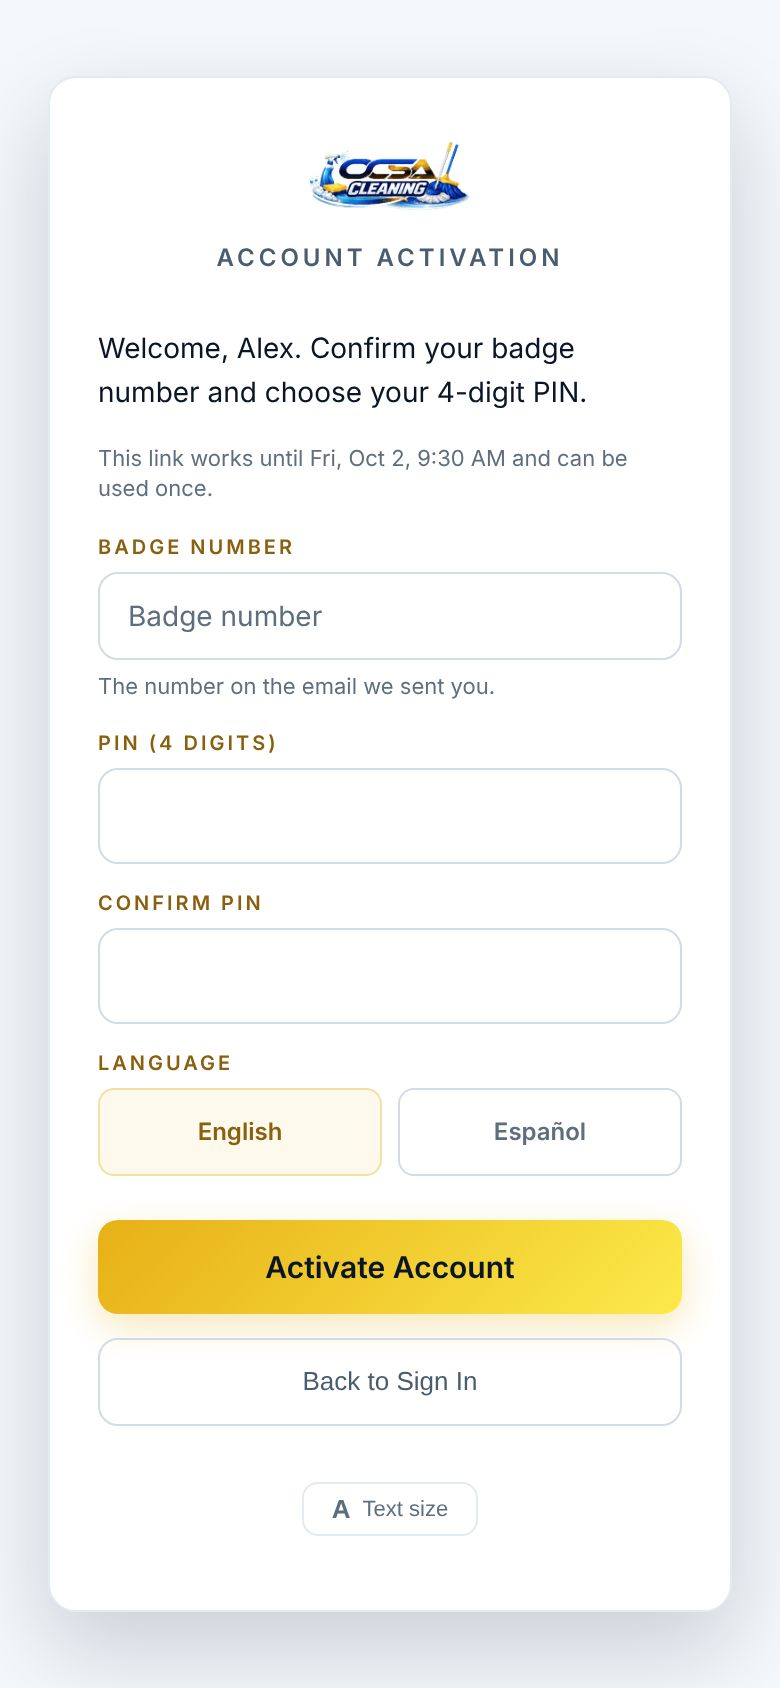
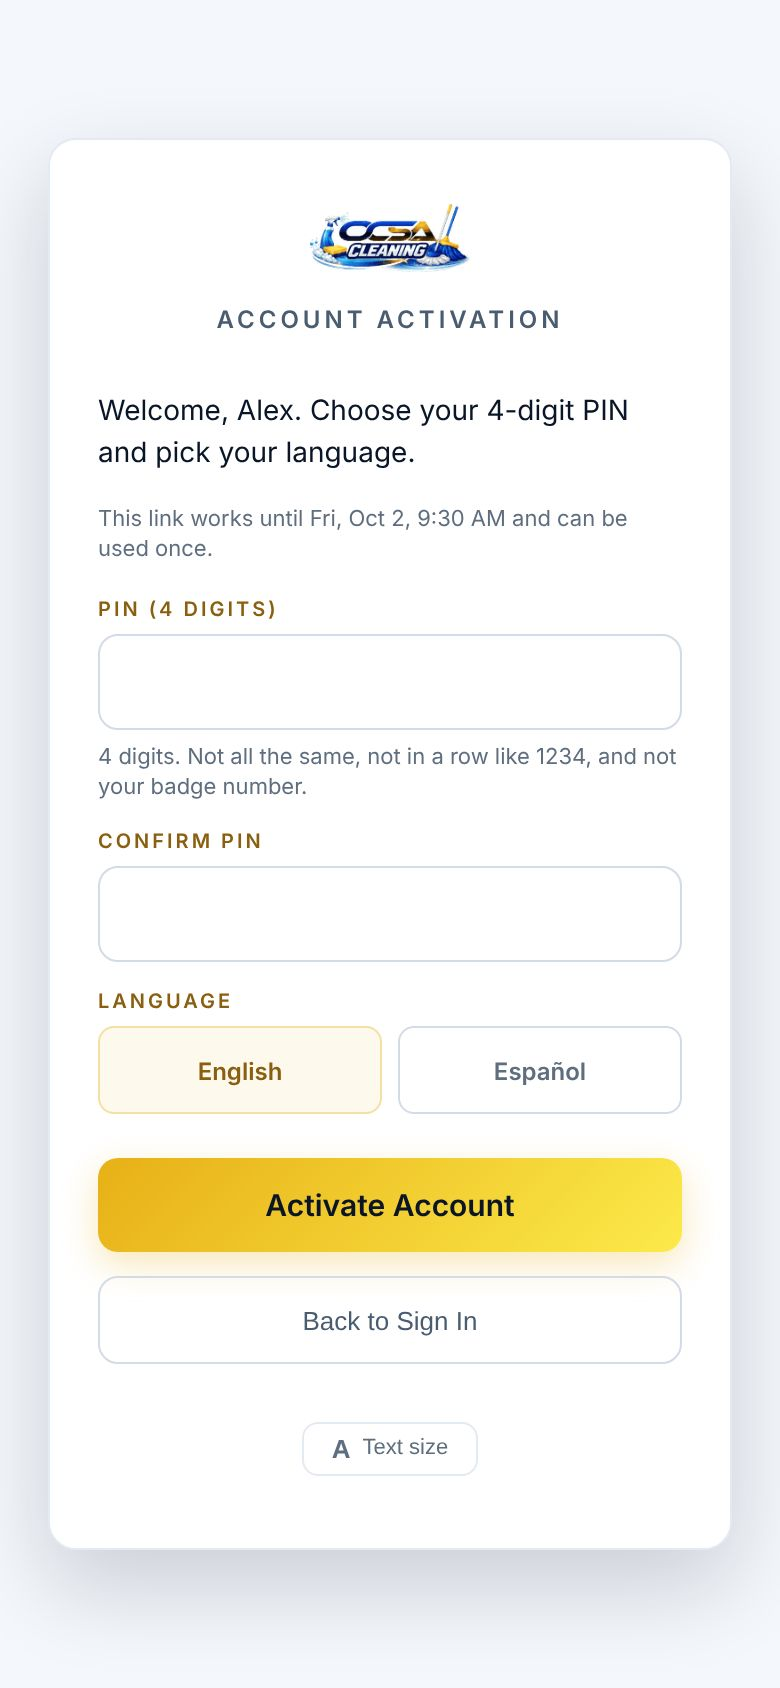
294: The guide, the stub, the picture and the smoke for activating from the welcome email
The guide: Activate your account from the email is rewritten for the
welcome email: tap Set up my account in it (the link works once and
expires in 7 days); Account Activation asks no badge; choose a 4 digit
PIN with the rule the screen gives; pick the language; Activate
Account; afterward sign in with badge number, phone or email and the
PIN. The weak-PIN refusal is named, and an older link that still asks
for the badge keeps its lines. Its words people use gain "welcome
email" and "set up my account" was already there. Last checked:
2026-10-07, and the picture activate is retaken by npm run shots on the
link from the welcome email, with no badge box.

The stub answers API Step 292 as its contract gives it: the activation
GET answers badgeAssigned false unless activationBadge stands in for an
older link, and the person's badgeNumber as live does, and the POST refuses a PIN that is not 4 digits or is weak
(isWeakPin's rule) with 400 PIN_WEAK in the request's language, and
keeps every body it is sent.

The smoke check gains activating from the welcome email, in English and
Spanish at 390: the link opens with no badge box, a weak PIN is refused
on the phone in Change PIN's words with nothing sent, and so is the
badge number, and a good PIN activates once, with no badge number and
the screen's language, and signs in.

The check a supply request with many items is steadied: each item's
supply is picked only once its picker has drawn all four rows of the
[…]

diff --git a/audit/smoke.js b/audit/smoke.js
@@ -165,7 +165,7 @@ const fs = require("fs");
 const path = require("path");
 const { serve } = require("./serve");
 const { launch, openApp } = require("./browser");
-const { createStub, servedFor, ADMIN_PERSON, FORM, TWIN_ES, HELP_ANSWERS, SDS_SHEETS, WS_TODO, SECOND_STEP_CODE, SECOND_STEP_HINT, FORM_A_WORDS, FORM_W_WORDS, EQ_CODE, EQ_ITEM, FORM_N_WORDS, CONCERN_REF,
+const { createStub, servedFor, ADMIN_PERSON, PERSON, FORM, TWIN_ES, HELP_ANSWERS, SDS_SHEETS, WS_TODO, SECOND_STEP_CODE, SECOND_STEP_HINT, FORM_A_WORDS, FORM_W_WORDS, EQ_CODE, EQ_ITEM, FORM_N_WORDS, CONCERN_REF,
   API_REFUSALS, requestWord, requestCategoryTitle, REQUEST_REF, SUP_CODE, SUP_ITEM, SUP_SITES, INSPECTION_F, FINDING_REFUSALS, TRAINING_ME, TRAINING_LESSONS, TRAINING_AWAITING, TRAINING_REFUSALS, TRAINING_SESSION_SEED, TRAINING_OBSERVATION, TRAINING_DOCUMENT, TRAINING_CATEGORIES, LESSON_IMAGE_HOST, SIGN_SEED, SIGN_WORDS, PROPERTY_KIND_WORDS, STAFF, SUPPLY_DENY_NOTE, PIN_REFUSALS, HANDBOOK, SUPPORT_CONTACT, SUPPORT_DRAFT } = require("./stub");
 const { inspect } = require("./screens");
 const { sort: sortKnown } = require("./known");
@@ -475,6 +475,42 @@ async function sds(browser, language) {
 // reload, Change PIN with a wrong current PIN, and a first supply request
 // on an empty list. Then with a stored session: a 502 at boot, and the
 // supply label's page on a PIN the person was given.
+// Activating from the welcome email (Step 294), against API Step 292 as
+// its contract gives it and the stub answers it: the link answers
+// badgeAssigned false, so no badge box; a weak PIN is refused on the
+// phone in Change PIN's words with nothing sent; a good PIN activates
+// once, with no badge number, and signs in.
+async function activateWelcome(browser, language, width) {
+  const tag = " (" + language + ", " + width + " wide)";
+  const app = await open({ accountPreferences: { language: language, textSize: "standard" } }, { browser, language, width, path: "/activate?token=fixture" });
+  const page = app.page;
+  const up = await waitFor(page, (w) => !!document.querySelectorAll('input[type="password"]')[1] && document.body.innerText.indexOf(w) !== -1, say(language, "Choose your 4-digit PIN and pick your language."));
+  const noBadge = up && await page.evaluate((w) => !Array.from(document.querySelectorAll("input")).some(i => i.placeholder === w.box) && !Array.from(document.querySelectorAll("label")).some(l => l.innerText.trim().toUpperCase() === w.label.toUpperCase()), { box: say(language, "Badge number"), label: say(language, "Badge Number") });
+  const pins = async (pin) => { const boxes = await page.$$('input[type="password"]'); await boxes[0].fill(pin); await boxes[1].fill(pin); };
+  let weak = false, weakNotSent = false, inNow = false;
+  if (up) {
+    await pins("1234");
+    await clickWord(page, say(language, "Activate Account"));
+    weak = await waitFor(page, (w) => document.body.innerText.indexOf(w) !== -1, say(language, "Choose a PIN that is not repeated digits, a sequence, or your badge number"));
+    // The badge number the link's GET answers, refused the same way.
+    await pins(PERSON.badgeNumber);
+    await clickWord(page, say(language, "Activate Account"));
+    await pause(page, TAP_SETTLE);
+    weak = weak && await waitFor(page, (w) => document.body.innerText.indexOf(w) !== -1, say(language, "Choose a PIN that is not repeated digits, a sequence, or your badge number"));
+    weakNotSent = weak && app.stub.state.activations.length === 0;
+    await pins("4907");
+    await clickWord(page, say(language, "Activate Account"));
+    inNow = await waitFor(page, BAR_JS + ".length >= 5", null, 10000);
+  }
+  const sent = app.stub.state.activations;
+  const once = sent.length === 1 && sent[0].pin === "4907" && sent[0].token === "fixture" && !("badgeNumber" in sent[0]) && sent[0].locale === language;
+  const wide = await sideways(page);
+  check("activating from the welcome email: the link opens with no badge box, a weak PIN and the badge number are refused on the phone in Change PIN's words with nothing sent, and a good PIN activates once with no badge number and signs in" + tag,
+    up && noBadge && weak && weakNotSent && inNow && once && wide <= 1 && app.errors.length === 0,
+    !up ? "the activation screen did not read its welcome line" : !noBadge ? "a badge box showed" : !weak ? "the weak PIN was not refused on the phone" : !weakNotSent ? "the weak PIN was sent" : !inNow ? "the good PIN did not sign in" : !once ? JSON.stringify(sent) : wide > 1 ? wide + " pixels sideways" : app.errors[0]);
+  await app.context.close();
+}
+
 async function signInClosed(browser, language, width) {
   const tag = " (" + language + ", " + width + " wide)";
   const app = await open({ person: ADMIN_PERSON, secondStep: true, supplyItems: true, supplyEmpty: true, accountPreferences: { language: language, textSize: "standard" } }, { browser, language, width });
@@ -1596,18 +1632,29 @@ async function supplyLines(browser, language, width) {
   }, { approved: say(language, "Approved {n} of {m}", { n: 3, m: 5 }), denied: say(language, "Denied"), note: say(language, "Note: {note}", { note: SUPPLY_DENY_NOTE }), qty: say(language, "Quantity: {n}", { n: 5 }) + " rolls" });
   let lines = false, three = false, listed = false, refused = false, capped = false, damage = false, wide = 0;
   if (decided) { await formOpen("Refill"); lines = await waitFor(page, () => !!document.querySelector('[data-supply-lines="1"] [data-supply-line-supply="0"]') && !!document.querySelector("[data-supply-add]")); }
+  // Each item's supply is picked once its picker draws all four of the
+  // list's rows, as the searchable pickers check waits (Step 294): on a
+  // slow phone with both lanes running, a tap made before the list had
+  // drawn picked nothing, and Submit Request posted no refill.
+  let picked = 0;
+  const pickSupply = async (i, id) => {
+    const scope = '[data-supply-line-supply="' + i + '"]';
+    await waitFor(page, (s) => document.querySelectorAll(s + " [data-pick-row]").length === 4, scope);
+    if (await pickIn(page, scope, id)) picked += 1;
+  };
   if (lines) {
     for (let i = 0; i < 3; i += 1) await page.click("[data-supply-add]");
+    await waitFor(page, () => !!document.querySelector('[data-supply-lines="4"]'));
     const more = say(language, "One more");
-    await pickIn(page, '[data-supply-line-supply="0"]', "sup-1");
+    await pickSupply(0, "sup-1");
     await page.click('[data-supply-line="0"] [aria-label="' + more + '"]');
     await page.click('[data-supply-line="0"] [aria-label="' + more + '"]');
-    await pickIn(page, '[data-supply-line-supply="1"]', "sup-2");
+    await pickSupply(1, "sup-2");
     await page.fill('[data-supply-line-qty="1"]', "7");
-    await pickIn(page, '[data-supply-line-supply="2"]', "sup-3");
+    await pickSupply(2, "sup-3");
     await page.fill('[data-supply-line-qty="2"]', "12");
     await page.fill('[data-supply-line-note="2"]', "Invented: the large ones.");
-    await pickIn(page, '[data-supply-line-supply="3"]', "sup-4");
+    await pickSupply(3, "sup-4");
     wide = await sideways(page);
     await page.click('[data-supply-line-remove="1"]');
     three = await waitFor(page, () => !!document.querySelector('[data-supply-lines="3"]'));
@@ -1648,8 +1695,8 @@ async function supplyLines(browser, language, width) {
   const damageSent = dmg.length === 1 && dmg[0].supplyId === "sup-2" && dmg[0].itemName === "Invented hand soap" && !("items" in dmg[0]);
   await app.context.close();
   check("A supply request with many items: My requests reads Approved 3 of 5 and Denied with the office's note; Refill takes four items, one is removed, and Submit Request posts the three once as items in order with their quantities and note, which My requests then lists; New Gear's refusal naming items.0.itemName reads under that item's name; the 31st item is refused on the phone; Damage Report posts one supply and no items, as before; with no sideways scroll" + tag,
-    decided && lines && three && listed && sentOnce && refused && capped && damage && damageSent && all.length === 3 && wide <= 1 && app.errors.length === 0,
-    !decided ? "My requests did not read the decided request" : !lines ? "Refill did not offer items" : !three ? "removing an item did not leave three" : !listed ? "My requests did not list the new request's three items" : !sentOnce ? JSON.stringify(refill) : !refused ? "the refusal did not read under the item's name" : !capped ? "the 31st item was not refused on the phone" : !damage ? "the damage report did not go" : !damageSent ? JSON.stringify(dmg) : all.length !== 3 ? all.length + " posts" : wide > 1 ? wide + " pixels sideways" : app.errors[0]);
+    decided && lines && picked === 4 && three && listed && sentOnce && refused && capped && damage && damageSent && all.length === 3 && wide <= 1 && app.errors.length === 0,
+    !decided ? "My requests did not read the decided request" : !lines ? "Refill did not offer items" : picked !== 4 ? "only " + picked + " of the four supplies were picked" : !three ? "removing an item did not leave three" : !listed ? "My requests did not list the new request's three items" : !sentOnce ? JSON.stringify(refill) : !refused ? "the refusal did not read under the item's name" : !capped ? "the 31st item was not refused on the phone" : !damage ? "the damage report did not go" : !damageSent ? JSON.stringify(dmg) : all.length !== 3 ? all.length + " posts" : wide > 1 ? wide + " pixels sideways" : app.errors[0]);
 }
 
 // The supply page (Step 252): signed out, the sheet in the page and Sign
@@ -1930,6 +1977,7 @@ async function largest(browser) {
       await guard("/sds (en)", () => sds(browser, "en"));
       await guard("sign-in made simple and closed (en)", () => signInClosed(browser, "en", 390));
       await guard("sign-in made simple and closed (es)", () => signInClosed(browser, "es", 320));
+      for (const language of ["en", "es"]) await guard("activating from the welcome email (" + language + ")", () => activateWelcome(browser, language, 390));
       for (const language of ["en", "es"]) await guard("the workspace (" + language + ")", () => supervisor(browser, language));
       for (const language of ["en", "es"]) await guard("007 on the customer page (" + language + ")", () => customerAsks(browser, language));
       for (const language of ["en", "es"]) await guard("006 on the customer page (" + language + ")", () => customerWalk(browser, language));

diff --git a/audit/stub.js b/audit/stub.js
@@ -700,6 +700,16 @@ const cutInto = (text, n) => {
 // byte: auth.pinIncorrect, auth.pinUnchanged, auth.pinWeak and
 // auth.pinFormat. The API also answers PIN_UNCHANGED with
 // auth.pinSameAsGiven on a first PIN, which the portal never sends.
+// isWeakPin in the API's routes/auth.js: four of one digit, four digits
+// running up or down by one, or the badge number or its last four.
+function weakPin(pin, badge) {
+  const d = String(pin).split("").map(Number);
+  const same = d.every(x => x === d[0]);
+  const up = d.every((x, i) => i === 0 || x === d[i - 1] + 1);
+  const down = d.every((x, i) => i === 0 || x === d[i - 1] - 1);
+  const b = badge ? String(badge) : "";
+  return same || up || down || (!!b && (pin === b || pin === b.slice(-4)));
+}
 const PIN_REFUSALS = {
   PIN_INCORRECT: ["Current PIN is incorrect", "El PIN actual no es correcto"],
   PIN_UNCHANGED: ["New PIN must be different from your current PIN", "El PIN nuevo debe ser distinto de su PIN actual"],
@@ -841,6 +851,8 @@ function makeState(opts) {
     loginMisses: {},
     challenge: null,
     activationBadge: !!o.activationBadge,
+    // Step 294: every POST /api/auth/activate body, in order.
+    activations: [],
     // The smoke check's switches (Step 237, audit/smoke.js), each off
     // unless a case turns it on, so every other case is answered as
     // before. languages: the list GET /api/languages answers, and a call
@@ -2991,13 +3003,21 @@ function createStub(opts) {
     // saved language rides along when the account has one.
     const linkInfo = () => Object.assign({ firstName: state.person.firstName, expiresAt: iso(NOW.getTime() + 12 * 60 * 60 * 1000) },
       (state.accountPreferences && (state.accountPreferences.language === "en" || state.accountPreferences.language === "es")) ? { preferredLanguage: state.accountPreferences.language } : {});
-    if (method === "GET" && /^\/api\/auth\/activate\//.test(pathname)) return json(200, Object.assign(linkInfo(), { badgeAssigned: state.activationBadge }));
+    // API Step 292 answers badgeAssigned false for every link from the
+    // welcome email; activationBadge stands in for a link from before it.
+    if (method === "GET" && /^\/api\/auth\/activate\//.test(pathname)) return json(200, Object.assign(linkInfo(), { badgeNumber: state.person.badgeNumber, badgeAssigned: state.activationBadge }));
     // A link whose row carries a badge number turns away one that does
     // not match, with a code the screen reads and a sentence it does not.
+    // Since Step 292 the PIN passes change-pin's weak-PIN rule, refused
+    // in the same words, and every activation is kept to be read back.
     if (key === "POST /api/auth/activate") {
+      state.activations.push(body);
       if (state.activationBadge && body && body.badgeNumber && body.badgeNumber !== state.person.badgeNumber) {
         return json(400, { error: BADGE_MISMATCH[0], code: "BADGE_MISMATCH" });
       }
+      const pin = String((body && body.pin) || "");
+      if (!/^[0-9]{4}$/.test(pin)) return json(400, { error: PIN_REFUSALS.PIN_FORMAT[languageOf(search, state) === "es" ? 1 : 0], code: "PIN_FORMAT" });
+      if (weakPin(pin, state.person.badgeNumber)) return json(400, { error: PIN_REFUSALS.PIN_WEAK[languageOf(search, state) === "es" ? 1 : 0], code: "PIN_WEAK" });
       return json(200, { token: "token-one" });
     }
     if (method === "GET" && /^\/api\/auth\/reset\//.test(pathname)) return json(200, { firstName: state.person.firstName, expiresAt: linkInfo().expiresAt });

diff --git a/audit/shots.js b/audit/shots.js
@@ -342,8 +342,9 @@ const SHOTS = [
     } },
   { name: "register", entry: E("Register as a new employee"), o: {},
     go: async (s) => { await s.waitText(s.say("Sign In")); await s.tap(s.say("New Employee? Register Here")); return s.waitText(s.say("Register")); } },
-  { name: "activate", entry: E("Activate your account from the email"), o: { path: "/activate?token=fixture", stub: { activationBadge: true } },
-    go: (s) => s.waitText(s.say("Activate Account")) },
+  // The link from the welcome email, which asks no badge (Step 294).
+  { name: "activate", entry: E("Activate your account from the email"), o: { path: "/activate?token=fixture" },
+    go: (s) => s.waitText([s.say("Activate Account"), s.say("Choose your 4-digit PIN and pick your language.")]) },
 
   // Home, and the shift.
   { name: "home", entry: E("What Home shows"), o: { signedIn: true, stub: { requests: true, signatures: true } },

diff --git a/guide/APP-PORTAL.md b/guide/APP-PORTAL.md
@@ -37,14 +37,15 @@ Picture: register
 Last checked: 2026-10-02
 
 ## Activate your account from the email (staff portal)
-Who can do this: someone who received an activation email
-1. Open the link in your activation email. When your account has a language set, the screen opens in it. Reloading the page, or the app updating itself, keeps you on the same link.
-2. In **Badge Number** (**Número de empleado**) (**Numéro de badge**), type the badge number from the email. An account with no badge number yet is not asked for one.
-3. Type a 4 digit PIN in **PIN (4 digits)** (**PIN (4 dígitos)**) (**Code PIN (4 chiffres)**) and the same 4 digits again in **Confirm PIN** (**Confirmar PIN**) (**Confirmer le code PIN**). Choose one that only you know and that is hard to guess: not four of the same digit, not digits in a row such as 1234, and not your badge number.
+Who can do this: someone who received the welcome email
+1. Open the welcome email from OCSA, Welcome to the OCSA app, and tap its Set up my account button. The email is in English first, then the same in Spanish. The link works once and expires in 7 days. When your account has a language set, the screen opens in it. Reloading the page, or the app updating itself, keeps you on the same link.
+2. **Account Activation** (**Activación de cuenta**) (**Activation du compte**) reads **Choose your 4-digit PIN and pick your language.** (**Elija su PIN de 4 dígitos y su idioma.**) (**Choisissez votre code PIN à 4 chiffres et votre langue.**) The link from the welcome email asks no badge number.
+3. Type a 4 digit PIN in **PIN (4 digits)** (**PIN (4 dígitos)**) (**Code PIN (4 chiffres)**) and the same 4 digits again in **Confirm PIN** (**Confirmar PIN**) (**Confirmer le code PIN**). Choose one that only you know. The line under the box gives the rule: **4 digits. Not all the same, not in a row like 1234, and not your badge number.** (**4 dígitos. No todos iguales, no seguidos como 1234 y no su número de empleado.**) (**4 chiffres. Pas tous identiques, pas à la suite comme 1234, et pas votre numéro de badge.**)
 4. Pick your **Language** (**Idioma**) (**Langue**). The whole screen switches as you tap.
 5. Tap **Activate Account** (**Activar cuenta**) (**Activer le compte**). **PIN set. Signing you in...** (**PIN guardado. Iniciando su sesión...**) (**Code PIN enregistré. Connexion en cours...**) shows, and the app opens signed in.
-If it does not work: a missing badge number reads **Enter the badge number from your email.** (**Escriba el número de empleado que aparece en su correo.**) (**Entrez le numéro de badge indiqué dans votre courriel.**) A badge number that does not match shows OCSA's reason under the box, and from the third try **Ask your supervisor to confirm your badge number.** (**Pida a su supervisor que confirme su número de empleado.**) (**Demandez à votre superviseur de confirmer votre numéro de badge.**) A PIN that is not 4 digits reads **PIN must be exactly 4 digits.** (**El PIN debe tener exactamente 4 dígitos.**) (**Le code PIN doit contenir exactement 4 chiffres.**), and two PINs that differ read **The two PINs do not match. Type the same 4 digits in both fields.** (**Los dos PIN no coinciden. Escriba los mismos 4 dígitos en las dos casillas.**) (**Les deux codes PIN ne correspondent pas. Tapez les mêmes 4 chiffres dans les deux champs.**) When OCSA refuses, the reason shows in its words. A used or expired link reads **This link is no longer valid. Links expire, and each one can only be used once.** (**Este enlace ya no sirve. Los enlaces vencen y cada uno se puede usar una sola vez.**) (**Ce lien n'est plus valable. Les liens expirent et chacun ne peut servir qu'une fois.**): ask your supervisor to send a new one. **Your PIN has been saved. Signing in will work once your account is active.** (**Su PIN se guardó. Podrá iniciar sesión cuando su cuenta esté activa.**) (**Votre code PIN est enregistré. Vous pourrez vous connecter quand votre compte sera actif.**) means your supervisor still has to turn your account on.
-Words people use for this: activate my account, activation email, badge number does not match, set up my account, my link does not work, the link stopped working after a reload, activar cuenta.
+6. After that, sign in any time with your badge number, your phone number or your email in **Badge Number, Phone or Email** (**Número de empleado, teléfono o correo**) (**Numéro de badge, téléphone ou courriel**), plus your PIN (see Sign in to the staff portal). The email names your badge number when you have one.
+If it does not work: a PIN that is four of the same digit, digits in a row such as 1234 or 4321, or your badge number reads **Choose a PIN that is not repeated digits, a sequence, or your badge number** (**Elija un PIN que no sea un mismo dígito repetido, una secuencia ni su número de empleado**) (**Choisissez un code PIN qui ne soit pas un chiffre répété, une suite ou votre numéro de badge**) under the box, before anything is sent: choose another. A PIN that is not 4 digits reads **PIN must be exactly 4 digits.** (**El PIN debe tener exactamente 4 dígitos.**) (**Le code PIN doit contenir exactement 4 chiffres.**), and two PINs that differ read **The two PINs do not match. Type the same 4 digits in both fields.** (**Los dos PIN no coinciden. Escriba los mismos 4 dígitos en las dos casillas.**) (**Les deux codes PIN ne correspondent pas. Tapez les mêmes 4 chiffres dans les deux champs.**) When OCSA refuses, the reason shows in its words. A used or expired link reads **This link is no longer valid. Links expire, and each one can only be used once.** (**Este enlace ya no sirve. Los enlaces vencen y cada uno se puede usar una sola vez.**) (**Ce lien n'est plus valable. Les liens expirent et chacun ne peut servir qu'une fois.**): ask your supervisor to send a new welcome email. An older activation link may still ask for **Badge Number** (**Número de empleado**) (**Numéro de badge**): type the badge number from the email. A missing one reads **Enter the badge number from your email.** (**Escriba el número de empleado que aparece en su correo.**) (**Entrez le numéro de badge indiqué dans votre courriel.**), and from the third one that does not match **Ask your supervisor to confirm your badge number.** (**Pida a su supervisor que confirme su número de empleado.**) (**Demandez à votre superviseur de confirmer votre numéro de badge.**) **Your PIN has been saved. Signing in will work once your account is active.** (**Su PIN se guardó. Podrá iniciar sesión cuando su cuenta esté activa.**) (**Votre code PIN est enregistré. Vous pourrez vous connecter quand votre compte sera actif.**) means your supervisor still has to turn your account on.
+Words people use for this: welcome email, set up my account, activate my account, activation email, the button in the email, choose my PIN, my link does not work, the link stopped working after a reload, badge number does not match, correo de bienvenida, configurar mi cuenta, activar cuenta.
 Picture: activate
 Last checked: 2026-10-07
 

diff --git a/audit/README.md b/audit/README.md
@@ -88,7 +88,8 @@ no More item, in English at 390 and Spanish at 320; a supply request
 with many items (Step 281), against an API that answers items: My
 requests reading a decided request, Approved 3 of 5 and Denied with the
 office's note, a refill of four items with one removed posted once as
-three items in order with their quantities and note, a refusal naming
+three items in order with their quantities and note (each supply picked
+once its picker has drawn all four rows, since Step 294), a refusal naming
 items.0.itemName under that item's name, the 31st item refused on the
 phone, and a damage report posted as before, one supply and no items, in
 English at 390 and Spanish at 320;
@@ -108,6 +109,11 @@ Can't sign in? Email from GET /api/support/contact asked with no token,
 a bug filed from App support with its details and listed first in My
 tickets, Help's drafted ticket filed only once sent from its card, and a
 PTO request;
+activating from the welcome email (Step 294), against API Step 292 as
+its contract gives it, in English and Spanish at 390: the link opens
+with no badge box, a weak PIN is refused on the phone in Change PIN's
+words with nothing sent, and a good PIN activates once, with no badge
+number, and signs in;
 French offered by the stub turns the screen French with no English the
 portal drew; and Home at the Largest size, 360 wide, has no control cut
 off. Each check prints one line, PASS or FAIL, and the command exits
